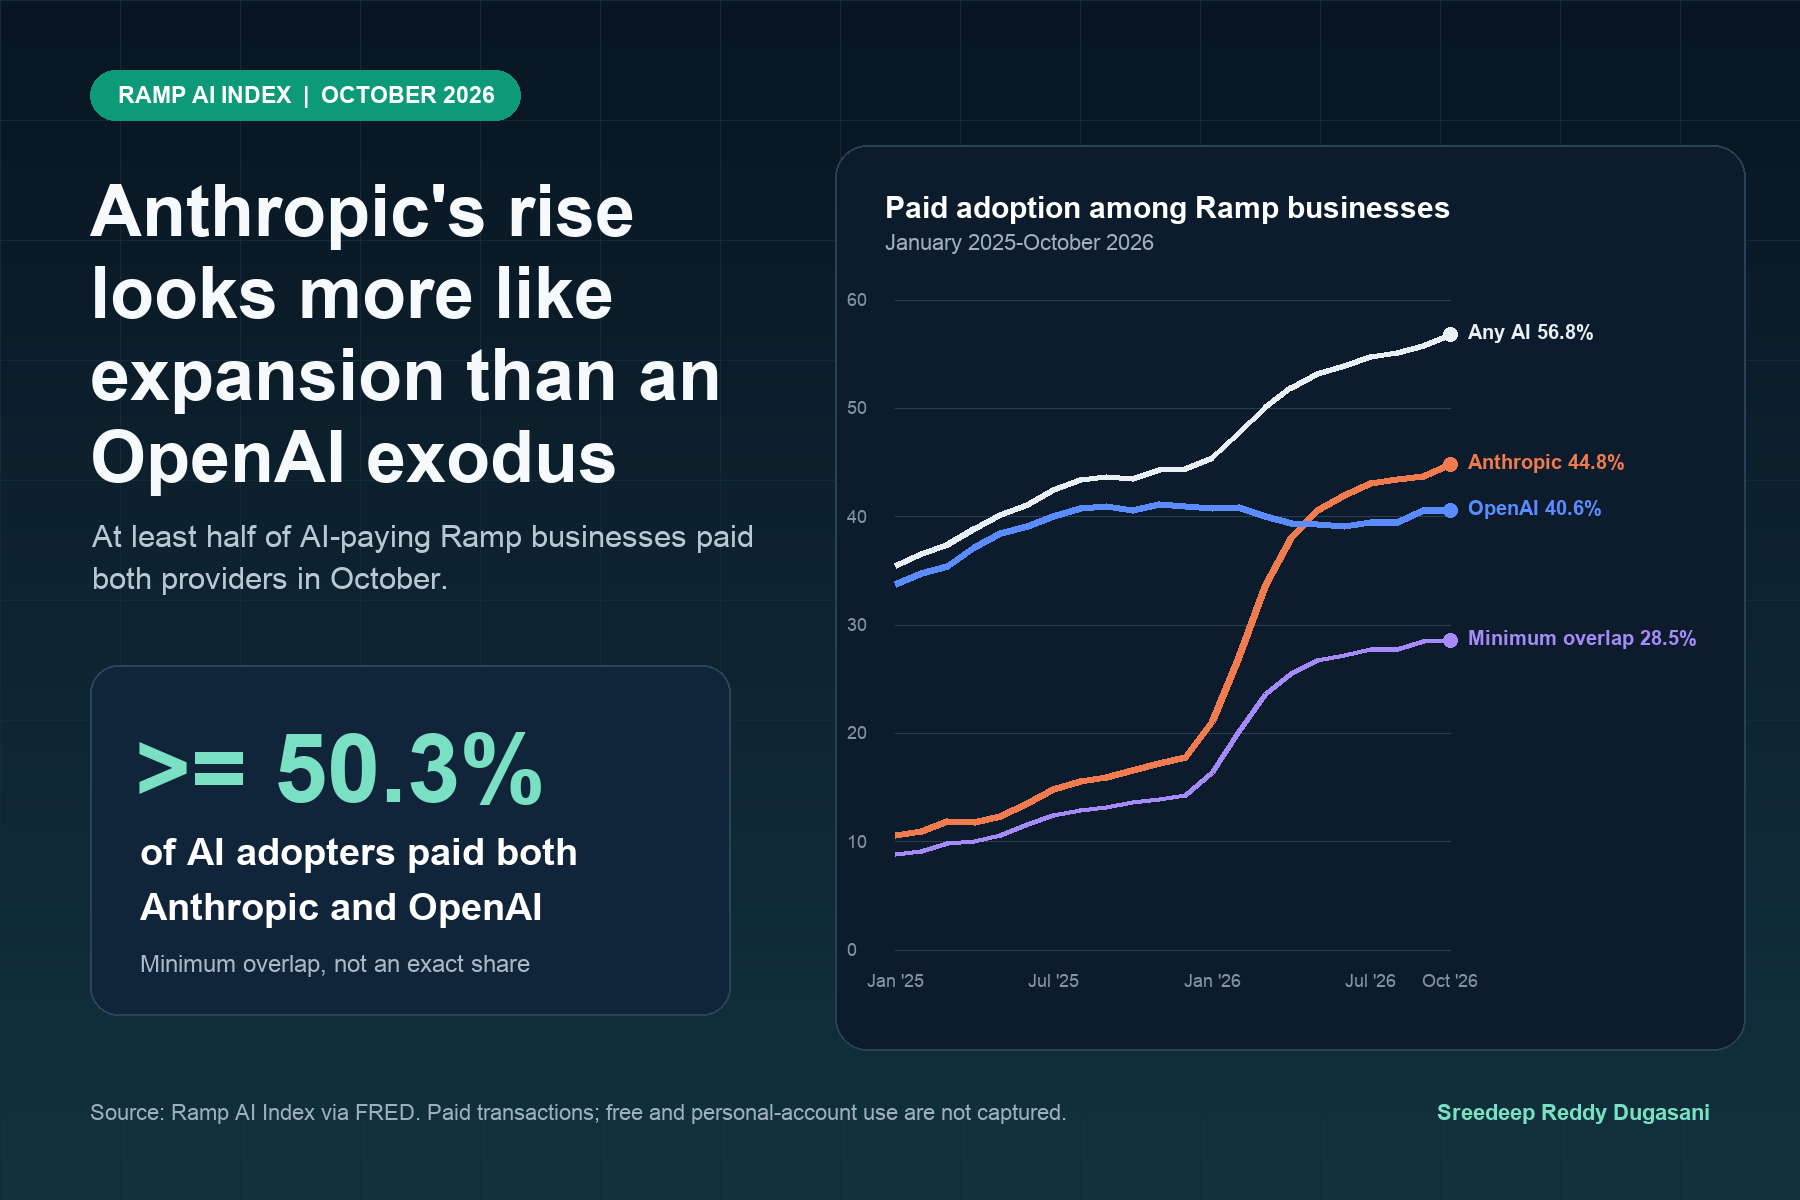
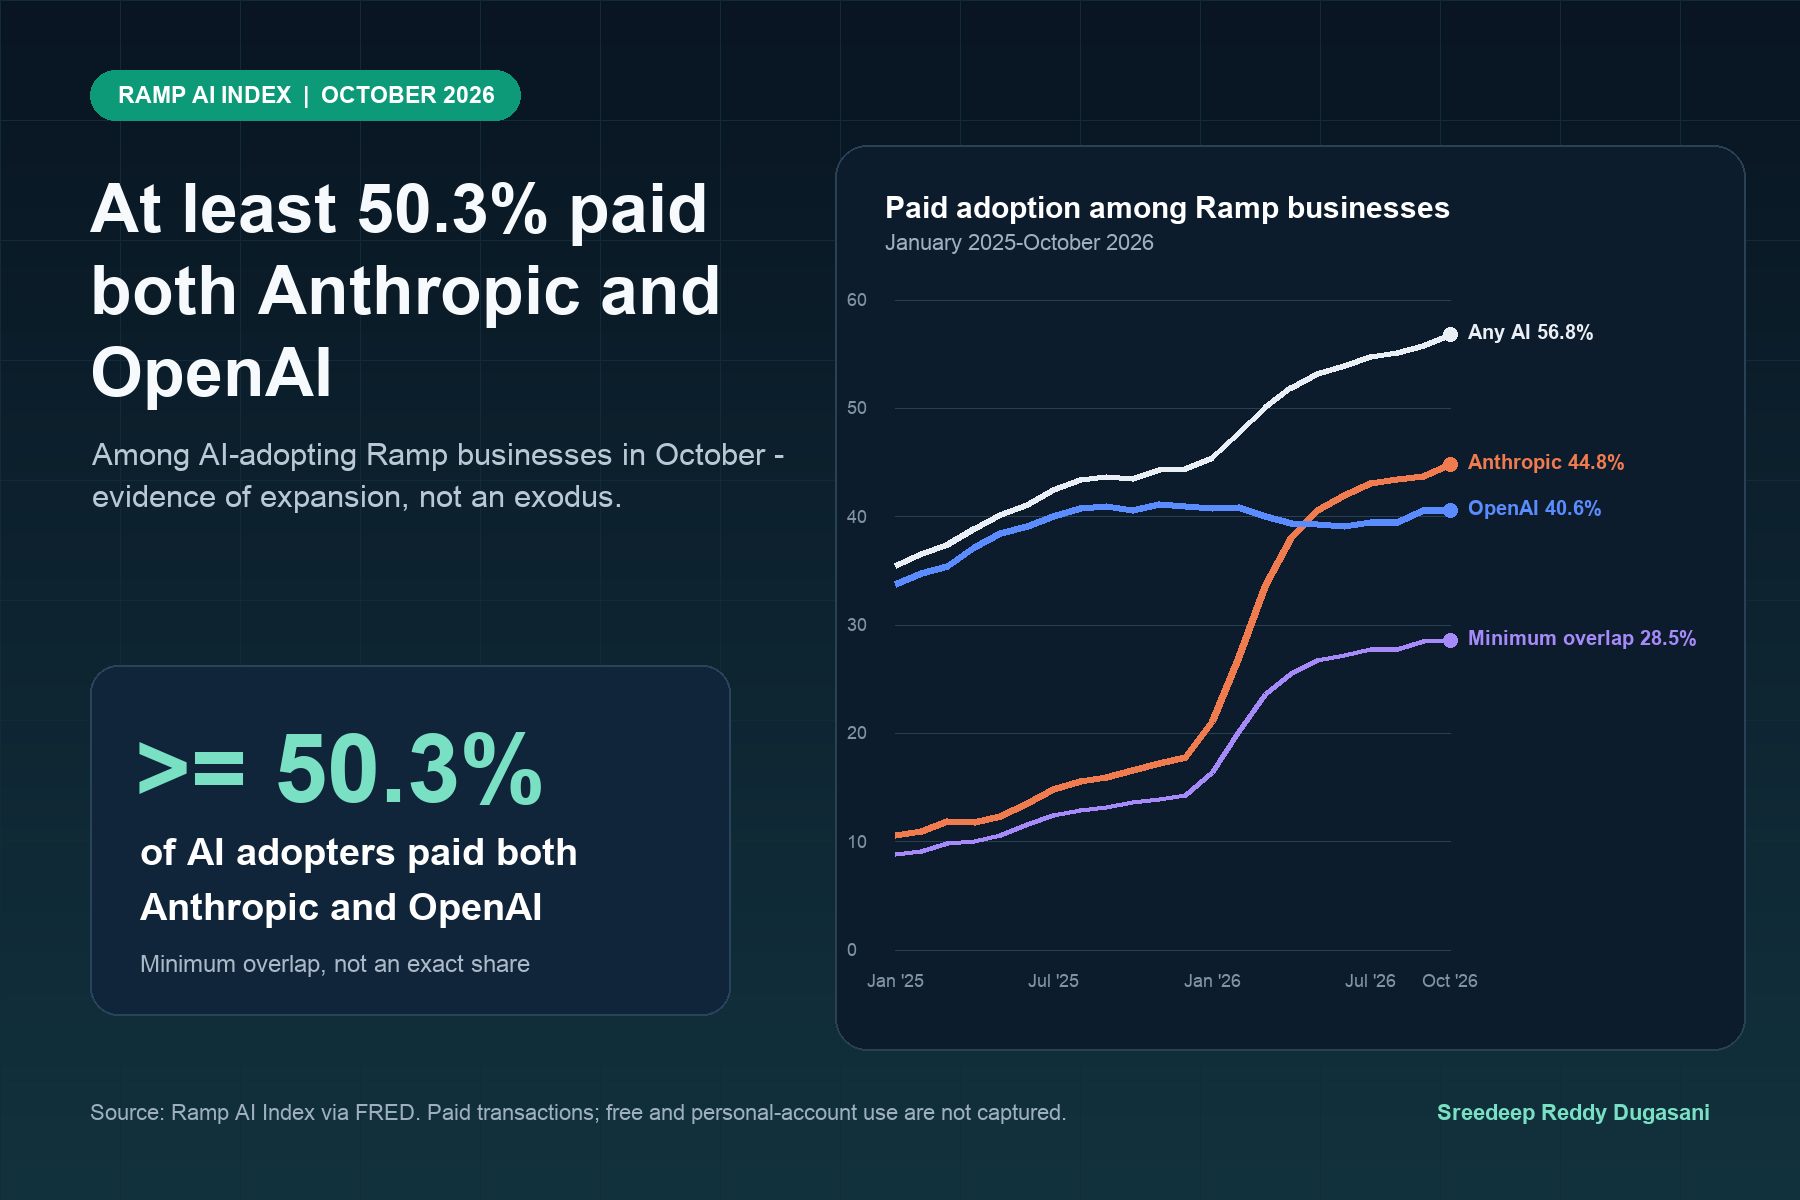
Align report with mission final checklist

Changed region(s): [[0.0311, 0.1542, 0.4356, 0.4933]]

diff --git a/src/build_report.py b/src/build_report.py
@@ -178,6 +178,17 @@ def draw_line_chart(
     c.setFillColor(MUTED)
     c.drawRightString(x + w, y + h - 9, "Monthly, Jan 2025-Oct 2026")
 
+    c.saveState()
+    c.setFont("Arial", 6.4)
+    c.setFillColor(MUTED)
+    c.translate(x + 6, (py0 + py1) / 2)
+    c.rotate(90)
+    c.drawCentredString(0, 0, "Adoption share (%)")
+    c.restoreState()
+    c.setFont("Arial", 6.4)
+    c.setFillColor(MUTED)
+    c.drawCentredString((px0 + px1) / 2, y - 1, "Month")
+
     c.setLineWidth(0.6)
     for tick in range(0, 61, 10):
         yy = py(tick)
@@ -255,12 +266,16 @@ def build_pdf(rows: list[dict[str, float | datetime]], metrics: dict[str, float 
     pdfmetrics.registerFont(TTFont("Arial", FONT_REGULAR))
     pdfmetrics.registerFont(TTFont("ArialBold", FONT_BOLD))
     c = canvas.Canvas(str(PDF_FILE), pagesize=LETTER)
-    c.setTitle("Anthropic's rise looks more like expansion than an OpenAI exodus")
+    finding_headline = (
+        f"At least {float(metrics['minimum_overlap_share']):.1f}% of AI-adopting Ramp businesses "
+        "paid both Anthropic and OpenAI in October."
+    )
+    c.setTitle(finding_headline)
     c.setAuthor("Sreedeep Reddy Dugasani")
     c.setSubject("Analysis of AI provider adoption using the Ramp AI Index")
     c.setCreator("Sreedeep Reddy Dugasani")
     width, height = LETTER
-    c.setTitle("Anthropic's rise looks more like expansion than an OpenAI exodus")
+    c.setTitle(finding_headline)
     c.setAuthor("Sreedeep Reddy Dugasani")
 
     c.setFillColor(colors.white)
@@ -272,15 +287,17 @@ def build_pdf(rows: list[dict[str, float | datetime]], metrics: dict[str, float 
     c.setFont("ArialBold", 7.2)
     c.drawString(51, 757, "RAMP AI INDEX  |  PROVIDER ADOPTION")
 
-    headline = "Anthropic's rise looks more like expansion than an OpenAI exodus"
-    paragraph(c, headline, 42, 741, 528, 74, size=24, leading=26, color=NAVY, bold=True)
+    paragraph(c, finding_headline, 42, 741, 528, 74, size=22.5, leading=24.5, color=NAVY, bold=True)
     deck = (
-        "Anthropic overtook OpenAI in paid business adoption, but OpenAI adoption held steady. "
-        "October's overlap implies that at least half of AI-paying firms paid both providers."
+        "Steady OpenAI adoption points to expansion, not a one-for-one exodus."
     )
     paragraph(c, deck, 42, 679, 528, 42, size=10.2, leading=13.2, color=MUTED)
 
     draw_line_chart(c, rows, metrics, 42, 385, 528, 244)
+    chart_source = (
+        'Source: <link href="https://ramp.com/data/ai-index"><u>Ramp Data (ramp.com/data)</u></link>, October 2026.'
+    )
+    paragraph(c, chart_source, 42, 380, 528, 12, size=6.2, leading=7.2, color=MUTED)
 
     box_y, box_h, gap = 238, 126, 12
     box_w = (528 - gap) / 2
@@ -291,8 +308,8 @@ def build_pdf(rows: list[dict[str, float | datetime]], metrics: dict[str, float 
     c.setFont("ArialBold", 8.2)
     c.drawString(55, box_y + box_h - 20, "EXPLANATION 1  |  PROVIDER SWITCHING")
     switching = (
-        "<b>Why it fits:</b> Anthropic passed OpenAI in May, and Ramp describes the category as having low lock-in and minimal switching costs.<br/><br/>"
-        "<b>What weakens it:</b> OpenAI adoption was 40.8% in January and 40.6% in October. A broad exodus should have pulled that rate down."
+        "<b>Supports it:</b> Anthropic passed OpenAI in May; Ramp reports low lock-in.<br/><br/>"
+        "<b>Weakens it:</b> OpenAI stayed near 41%; an exodus should reduce it."
     )
     paragraph(c, switching, 55, box_y + box_h - 31, box_w - 26, 88, size=8.1, leading=10.2, color=INK)
 
@@ -300,9 +317,9 @@ def build_pdf(rows: list[dict[str, float | datetime]], metrics: dict[str, float 
     c.setFont("ArialBold", 8.2)
     c.drawString(55 + box_w + gap, box_y + box_h - 20, "EXPLANATION 2  |  MULTI-PROVIDER EXPANSION")
     expansion = (
-        f"<b>Why it fits:</b> Overall adoption rose {float(metrics['overall_change']):.1f} points from January to October while OpenAI stayed flat. "
-        f"The minimum overlap was {float(metrics['minimum_overlap']):.1f} points, or at least {float(metrics['minimum_overlap_share']):.1f}% of AI adopters.<br/><br/>"
-        "<b>Best fit:</b> Firms appear to be adding Anthropic alongside OpenAI more often than replacing OpenAI outright."
+        f"<b>Supports it:</b> Overall adoption rose {float(metrics['overall_change']):.1f} points while OpenAI stayed flat; "
+        f"at least {float(metrics['minimum_overlap_share']):.1f}% paid both.<br/><br/>"
+        "<b>Best fit:</b> Firms added Anthropic alongside OpenAI."
     )
     paragraph(c, expansion, 55 + box_w + gap, box_y + box_h - 31, box_w - 26, 90, size=8.1, leading=10.2, color=INK)
 
@@ -311,8 +328,8 @@ def build_pdf(rows: list[dict[str, float | datetime]], metrics: dict[str, float 
     c.setFont("ArialBold", 8)
     c.drawString(55, 205, "VERDICT")
     verdict = (
-        "Buyers should plan for a multi-provider portfolio. The data cannot rule out some switching, but expansion fits better than a one-for-one migration. "
-        "Ramp independently found 52% dual use."
+        "Buyers should plan for multiple providers. Some switching remains possible, but expansion fits better. "
+        "Ramp separately found 52% dual use."
     )
     paragraph(c, verdict, 55, 199, 500, 30, size=9, leading=11.2, color=WHITE)
 
@@ -320,9 +337,8 @@ def build_pdf(rows: list[dict[str, float | datetime]], metrics: dict[str, float 
     c.setFont("ArialBold", 7.4)
     c.drawString(42, 148, "HOW THE LOWER BOUND WORKS")
     lower_bound = (
-        "Anthropic adoption + OpenAI adoption - all AI adoption = minimum overlap. "
-        "For October: 44.8% + 40.6% - 56.8% = 28.5% of all Ramp firms. "
-        "Dividing 28.5% by 56.8% means at least 50.3% of AI adopters paid both. Other AI vendors make this a lower bound, not an exact share."
+        "44.8% + 40.6% - 56.8% = 28.5% of Ramp firms, or 50.3% of AI adopters. "
+        "Other vendors make this a minimum, not an exact share."
     )
     paragraph(c, lower_bound, 42, 140, 528, 42, size=7.4, leading=9.2, color=MUTED)
 
@@ -333,9 +349,10 @@ def build_pdf(rows: list[dict[str, float | datetime]], metrics: dict[str, float 
     c.setFont("ArialBold", 6.8)
     c.drawString(42, 79, "SOURCE AND METHOD")
     source = (
-        "Sources: ramp.com/data/ai-index; fred.stlouisfed.org/release?rid=23; ramp.com/reports/2026-summer-spending-benchmarks. "
-        "Series RAMPAIALL, RAMPAIANTHROPIC, RAMPAIOPENAI; monthly data through Oct 2026; retrieved Nov 19, 2026. "
-        "Ramp defines adoption as the share of businesses with an observed payment for an AI product or service using card, invoice, and ACH transactions. "
+        'Sources: <link href="https://ramp.com/data/ai-index"><u>Ramp AI Index</u></link>; '
+        '<link href="https://fred.stlouisfed.org/release?rid=23"><u>FRED/Ramp series</u></link>; '
+        '<link href="https://ramp.com/reports/2026-summer-spending-benchmarks"><u>Ramp Summer 2026 report</u></link>. '
+        "Monthly through Oct 2026; retrieved Nov 19. Adoption means an observed business payment."
     )
     paragraph(c, source, 42, 72, 340, 46, size=6.0, leading=7.3, color=MUTED)
 
@@ -343,8 +360,7 @@ def build_pdf(rows: list[dict[str, float | datetime]], metrics: dict[str, float 
     c.setFont("ArialBold", 6.8)
     c.drawString(396, 79, "LIMITS")
     limits = (
-        "Payments show paid vendor relationships, not active usage. Free tools and personal accounts are missed. "
-        "Ramp businesses may not represent all U.S. firms, and historical estimates can be revised."
+        "Payments miss free and personal use. Ramp customers may not represent all U.S. firms; estimates can change."
     )
     paragraph(c, limits, 396, 72, 174, 44, size=6.3, leading=7.8, color=MUTED)
 
@@ -396,14 +412,14 @@ def build_cover(rows: list[dict[str, float | datetime]], metrics: dict[str, floa
     draw.rounded_rectangle((90, 70, 520, 120), radius=25, fill="#0C9A78")
     draw.text((118, 82), "RAMP AI INDEX  |  OCTOBER 2026", font=pil_font(23, True), fill="white")
 
-    headline = "Anthropic's rise looks more like expansion than an OpenAI exodus"
-    hfont = pil_font(72, True)
+    headline = f"At least {float(metrics['minimum_overlap_share']):.1f}% paid both Anthropic and OpenAI"
+    hfont = pil_font(68, True)
     lines = wrap_pil(draw, headline, hfont, 690)
     y = 170
     for line in lines:
         draw.text((90, y), line, font=hfont, fill="#F7FAFC")
         y += 82
-    deck = "At least half of AI-paying Ramp businesses paid both providers in October."
+    deck = "Among AI-adopting Ramp businesses in October - evidence of expansion, not an exodus."
     dfont = pil_font(31)
     for line in wrap_pil(draw, deck, dfont, 720):
         draw.text((92, y + 20), line, font=dfont, fill="#B9C8D5")
